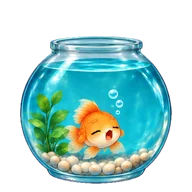
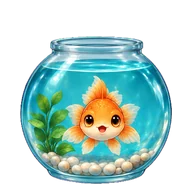
Fix review finding: the goldfish settles to sleep with its eyes open
The goldfish sleep_enter played c09, which shows closed eyes and a yawn in
every stage, against its own careHint ('Fish rest with their eyes open.').
An overrides.json entry renders goldfish c09 from the open-eyed idle pose
b00; the frames, manifest and PROVENANCE are regenerated by extract.py.
test_pet_assets now requires open-eyed sleep_enter/sleep frames for any
species whose sleep hint says it rests with its eyes open.

Changed region(s): [[0.0938, 0.1875, 0.9062, 0.9688]]

diff --git a/qml/tests/test_pet_assets.py b/qml/tests/test_pet_assets.py
@@ -7,8 +7,9 @@ WebP with alpha at 192x192 (thumbnails 96x96), non-empty alpha inside a 2 px mar
 ground contact within 6 px of groundY for floor species' standing frames, pairwise
 different locomotion frames, finite durations, aquatic water blocks (per stage too), hopper
 airborne frames exposed on the species locomotion block, per-stage hit boxes no larger than
-1.35x the stage's alpha union, stage minLevels and default names equal to the Rust core, and
-the provenance and docs coverage.
+1.35x the stage's alpha union, stage minLevels and default names equal to the Rust core,
+open-eyed sleep frames for species that rest with their eyes open, and the provenance and
+docs coverage.
 
 Strict by default: all 15 species must be extracted (`placeholder: false`). With
 CODEPET_ALLOW_PARTIAL_ART=1, species still awaiting source sheets are skipped with a
@@ -288,6 +289,16 @@ for idx, sid in enumerate(CORE_IDS):
             fail(f"{pre} hopper species must expose a non-empty locomotion.airborneFrames")
         elif sorted(loco["airborneFrames"]) != sorted(airborne):
             fail(f"{pre} locomotion.airborneFrames {loco['airborneFrames']} != states.locomotion.airborneFrames {sorted(airborne)}")
+    # A species whose sleep hint says it rests with its eyes open settles and sleeps only on
+    # the reviewed open-eyed poses (b00 idle, b07 asleep) or cells rendered from them: the
+    # goldfish c09 "settle to sleep" cell draws closed eyes and is remapped to b00.
+    if "eyes open" in str(man.get("careHints", {}).get("sleep", "")):
+        for st in (1, 2, 3):
+            open_eyed = {files.get(f"s{st}/{f}") for f in ("b00.webp", "b07.webp")} - {None}
+            for name in ("sleep_enter", "sleep"):
+                for f in states.get(name, {}).get("frames", []):
+                    if files.get(f"s{st}/{f}") not in open_eyed:
+                        fail(f"{pre} s{st} {name} frame {f} is not an open-eyed pose (b00/b07)")
     loco_frames = states.get("locomotion", {}).get("frames", [])
     airborne_files = {loco_frames[i] for i in airborne if 0 <= i < len(loco_frames)}
     pixels = {}

diff --git a/qml/assets/pets/PROVENANCE.md b/qml/assets/pets/PROVENANCE.md
@@ -231,6 +231,12 @@ Goldfish, the dreamy bubble navigator. Stages: Bubblet / Ripple Rover / Veiltail
[2 lines of base64/hex data omitted]
 
+Extraction overrides (`tools/petart/overrides.json`):
+
+- stage 1 `c09`: source="b00". c09 (settle to sleep) shows closed eyes and a yawn in every stage, against the careHint 'Fish rest with their eyes open.'; sleep_enter settles from the open-eyed idle pose (b00) until the care sheets are regenerated
+- stage 2 `c09`: source="b00". c09 (settle to sleep) shows closed eyes and a yawn in every stage, against the careHint 'Fish rest with their eyes open.'; sleep_enter settles from the open-eyed idle pose (b00) until the care sheets are regenerated
+- stage 3 `c09`: source="b00". c09 (settle to sleep) shows closed eyes and a yawn in every stage, against the careHint 'Fish rest with their eyes open.'; sleep_enter settles from the open-eyed idle pose (b00) until the care sheets are regenerated
+
 ## rabbit
 
 Rabbit, the alert garden scout. Stages: Garden Kit / Meadow Scout / Warren Sentinel (names from provenance.json).
